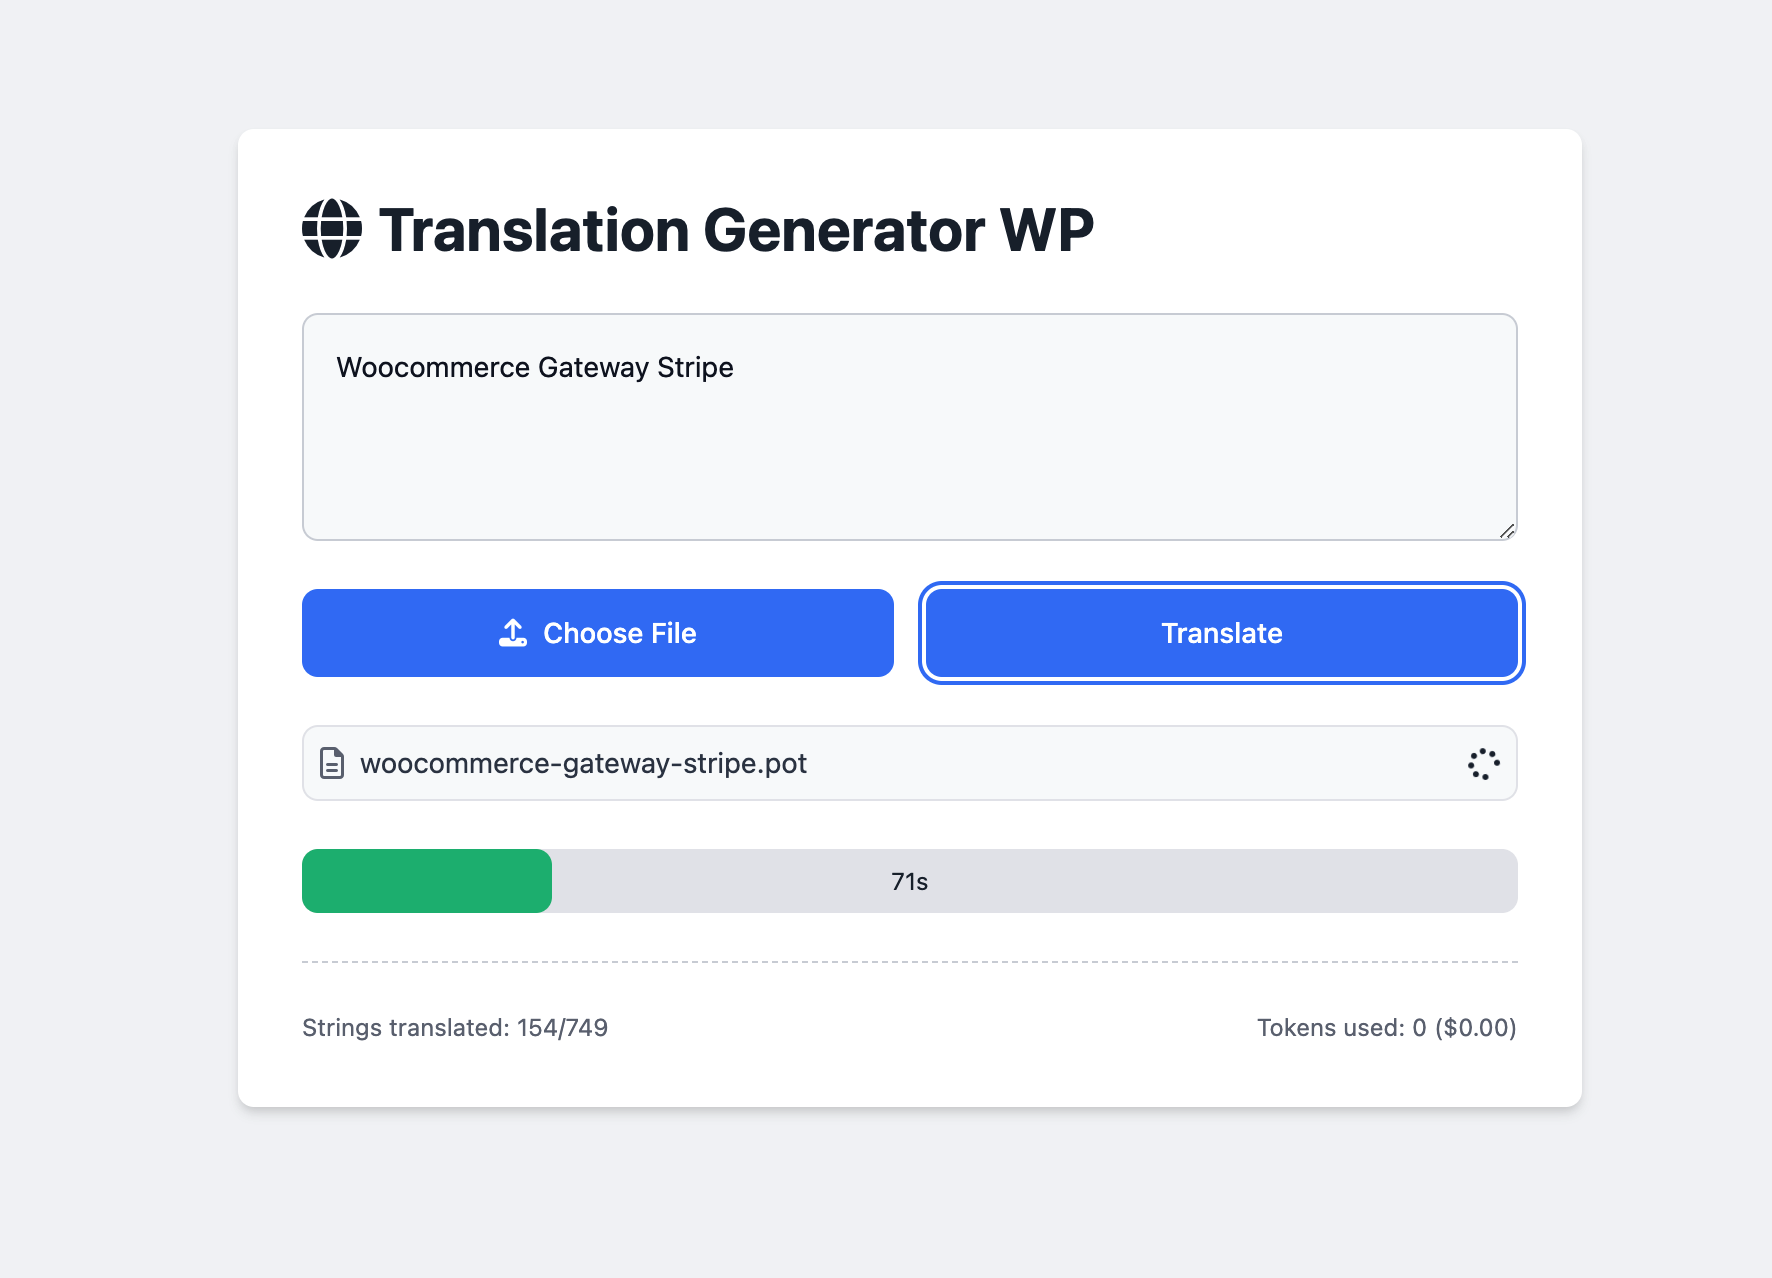
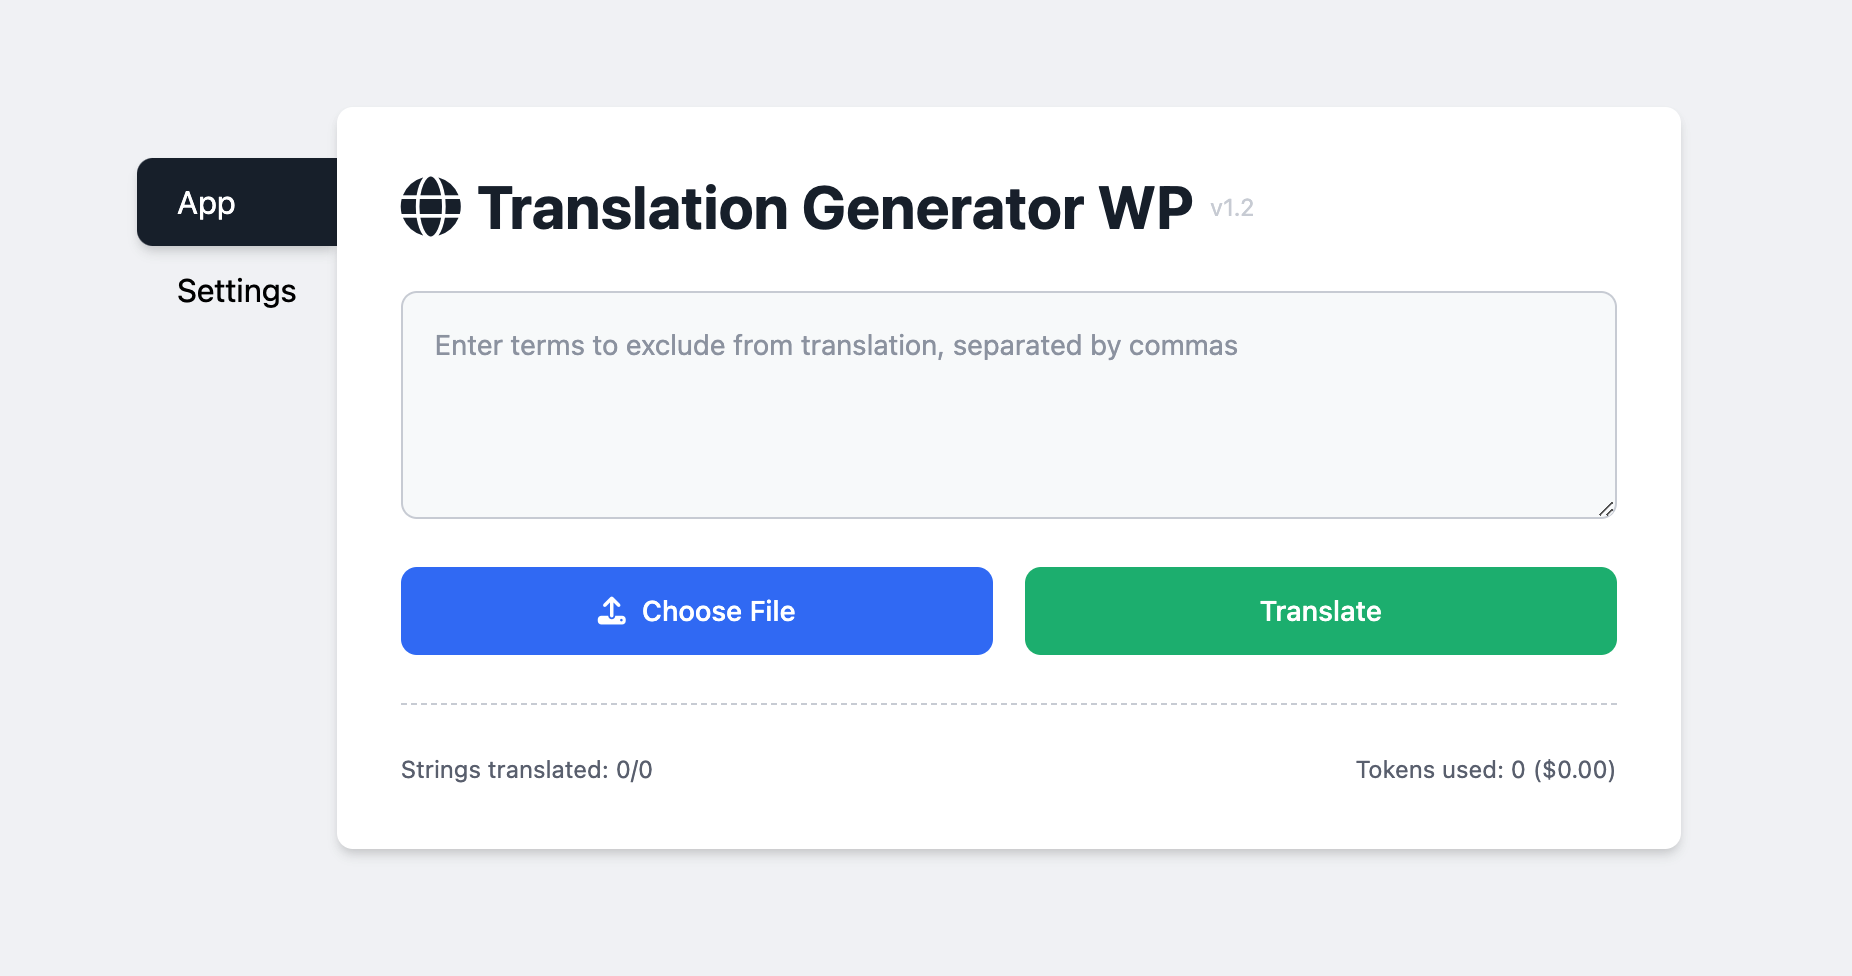
Update readme.md file

diff --git a/readme.md b/readme.md
@@ -1,6 +1,7 @@
 # Translation Generator WP
 
 ![Translation Generator WP](translation-generator-wp.png)
+![Translation Generator WP - Settings](translation-generator-wp-settings.png)
 
 ## Project Overview
 
@@ -36,7 +37,7 @@ npm install
 
 3. **Set up environment variables:**
 
-Create a `.env` file in the root directory of the project and add `OPENAI_API_KEY=sk-123` where `sk-123` is your OpenAI API Key.
+*[Optional]*: Create a `.env` file in the root directory of the project and add `OPENAI_API_KEY=sk-123` where `sk-123` is your OpenAI API Key. This can also be configured on the app settings page.
 
 4. **Run the project:**
 
